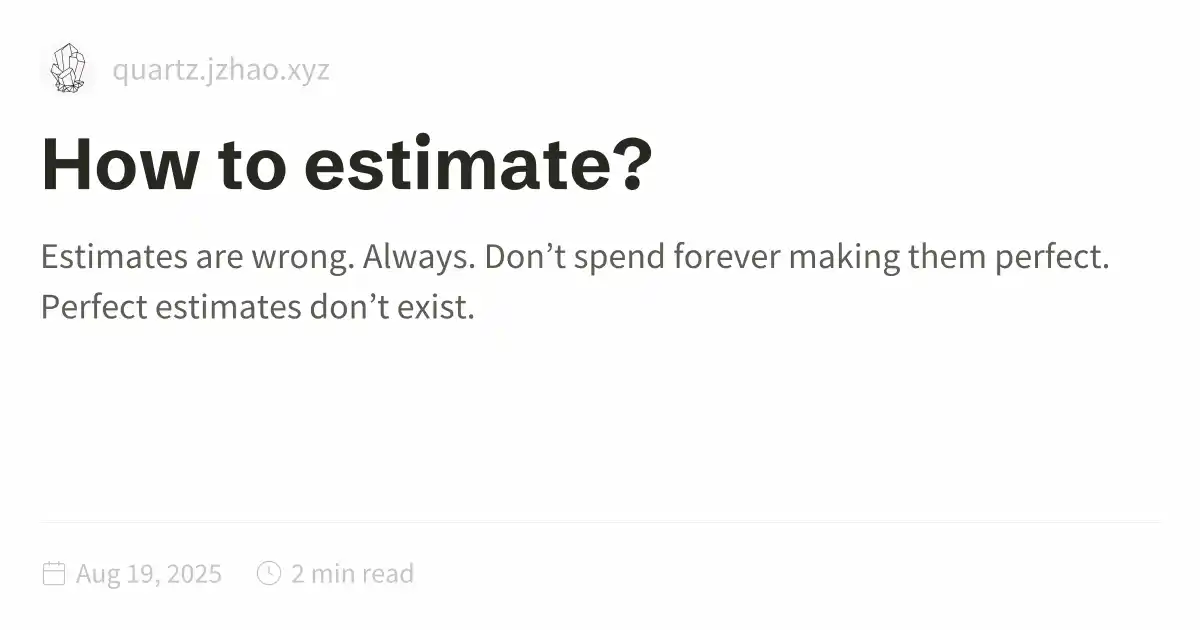
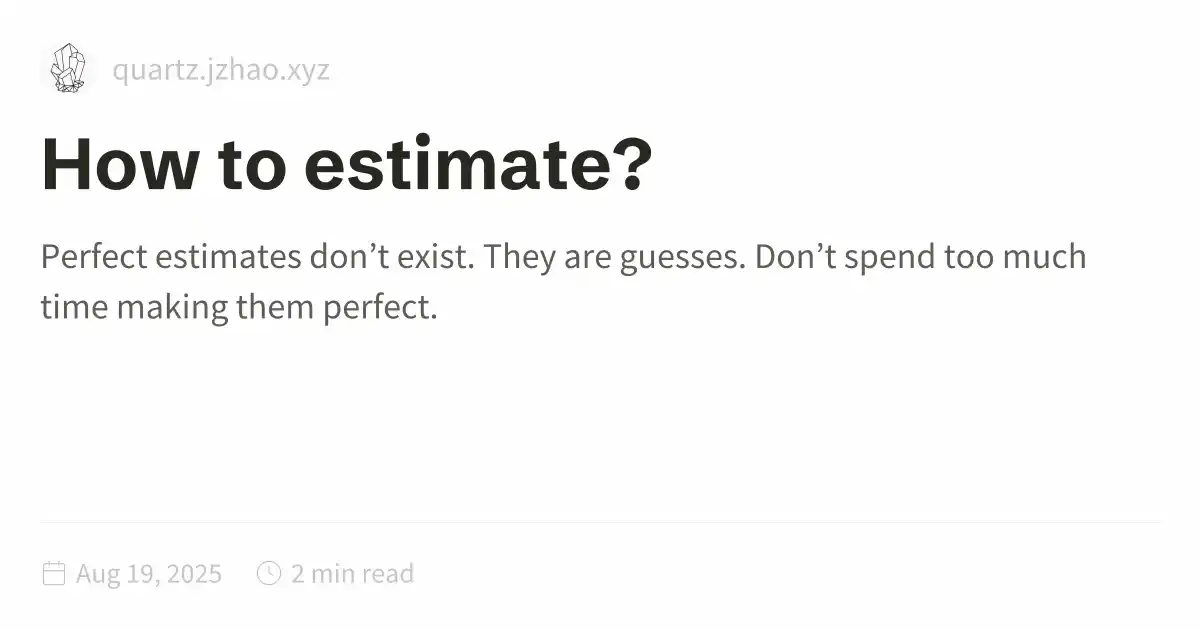
Quartz sync: Aug 19, 2025, 3:50 PM

Changed region(s): [[0.0308, 0.3921, 0.925, 0.5127]]

diff --git a/public/How-to-estimate.html b/public/How-to-estimate.html
@@ -1,5 +1,5 @@
 <!DOCTYPE html>
-<html lang="en"><head><title>How to estimate?</title><meta charset="utf-8"/><link rel="preconnect" href="https://fonts.googleapis.com"/><link rel="preconnect" href="https://fonts.gstatic.com"/><link rel="stylesheet" href="https://fonts.googleapis.com/css2?family=Schibsted Grotesk:wght@400;700&amp;family=Source Sans Pro:ital,wght@0,400;0,600;1,400;1,600&amp;family=IBM Plex Mono:wght@400;600&amp;display=swap"/><link rel="preconnect" href="https://cdnjs.cloudflare.com" crossorigin="anonymous"/><meta name="viewport" content="width=device-width, initial-scale=1.0"/><meta name="og:site_name" content="Essays"/><meta property="og:title" content="How to estimate?"/><meta property="og:type" content="website"/><meta name="twitter:card" content="summary_large_image"/><meta name="twitter:title" content="How to estimate?"/><meta name="twitter:description" content="Estimates are wrong. Always. Don’t spend forever making them perfect. Perfect estimates don’t exist."/><meta property="og:description" content="Estimates are wrong. Always. Don’t spend forever making them perfect. Perfect estimates don’t exist."/><meta property="og:image:alt" content="Estimates are wrong. Always. Don’t spend forever making them perfect. Perfect estimates don’t exist."/><meta property="twitter:domain" content="quartz.jzhao.xyz"/><meta property="og:url" content="https://quartz.jzhao.xyz/How-to-estimate"/><meta property="twitter:url" content="https://quartz.jzhao.xyz/How-to-estimate"/><link rel="icon" href="./static/icon.png"/><meta name="description" content="Estimates are wrong. Always. Don’t spend forever making them perfect. Perfect estimates don’t exist."/><meta name="generator" content="Quartz"/><link href="./index.css" rel="stylesheet" type="text/css" spa-preserve/><style>.expand-button {
+<html lang="en"><head><title>How to estimate?</title><meta charset="utf-8"/><link rel="preconnect" href="https://fonts.googleapis.com"/><link rel="preconnect" href="https://fonts.gstatic.com"/><link rel="stylesheet" href="https://fonts.googleapis.com/css2?family=Schibsted Grotesk:wght@400;700&amp;family=Source Sans Pro:ital,wght@0,400;0,600;1,400;1,600&amp;family=IBM Plex Mono:wght@400;600&amp;display=swap"/><link rel="preconnect" href="https://cdnjs.cloudflare.com" crossorigin="anonymous"/><meta name="viewport" content="width=device-width, initial-scale=1.0"/><meta name="og:site_name" content="Essays"/><meta property="og:title" content="How to estimate?"/><meta property="og:type" content="website"/><meta name="twitter:card" content="summary_large_image"/><meta name="twitter:title" content="How to estimate?"/><meta name="twitter:description" content="Perfect estimates don’t exist. They are guesses. Don’t spend too much time making them perfect."/><meta property="og:description" content="Perfect estimates don’t exist. They are guesses. Don’t spend too much time making them perfect."/><meta property="og:image:alt" content="Perfect estimates don’t exist. They are guesses. Don’t spend too much time making them perfect."/><meta property="twitter:domain" content="quartz.jzhao.xyz"/><meta property="og:url" content="https://quartz.jzhao.xyz/How-to-estimate"/><meta property="twitter:url" content="https://quartz.jzhao.xyz/How-to-estimate"/><link rel="icon" href="./static/icon.png"/><meta name="description" content="Perfect estimates don’t exist. They are guesses. Don’t spend too much time making them perfect."/><meta name="generator" content="Quartz"/><link href="./index.css" rel="stylesheet" type="text/css" spa-preserve/><style>.expand-button {
   position: absolute;
   display: flex;
   float: right;
@@ -116,10 +116,9 @@ pre:hover > .expand-button {
   padding: 0 12px;
   font-size: 14px;
 }
[1 lines of base64/hex data omitted]
-Always.</p>
-<p>Don’t spend forever making them perfect.<br/>
-Perfect estimates don’t exist.</p>
[1 lines of base64/hex data omitted]
+They are guesses.<br/>
+Don’t spend too much time making them perfect.</p>
 <p>“Man makes plans, God laughs.”</p>
 <p>But estimates still matter.<br/>
 They tell you how much a project costs.<br/>

diff --git a/content/How to estimate?.md b/content/How to estimate?.md
@@ -2,11 +2,9 @@
 title: How to estimate?
 draft: false
 ---
-Estimates are wrong.  
-Always.  
-
-Don't spend forever making them perfect.  
 Perfect estimates don't exist.  
+They are guesses.   
+Don't spend too much time making them perfect.   
 
 "Man makes plans, God laughs."  
 
